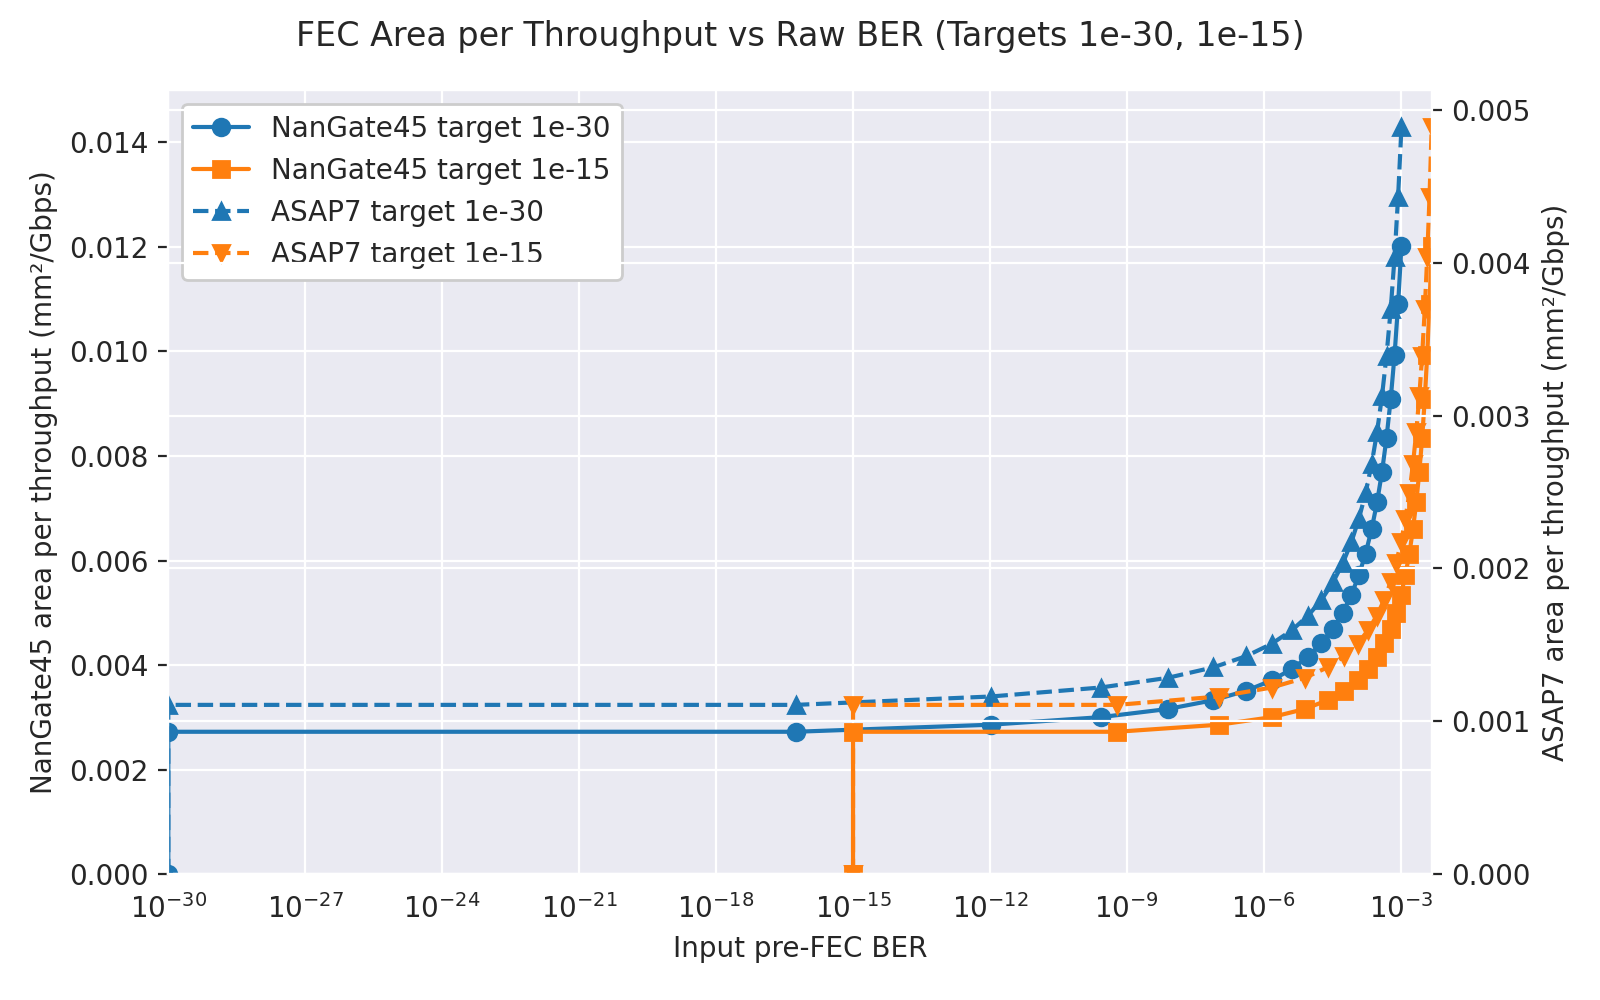
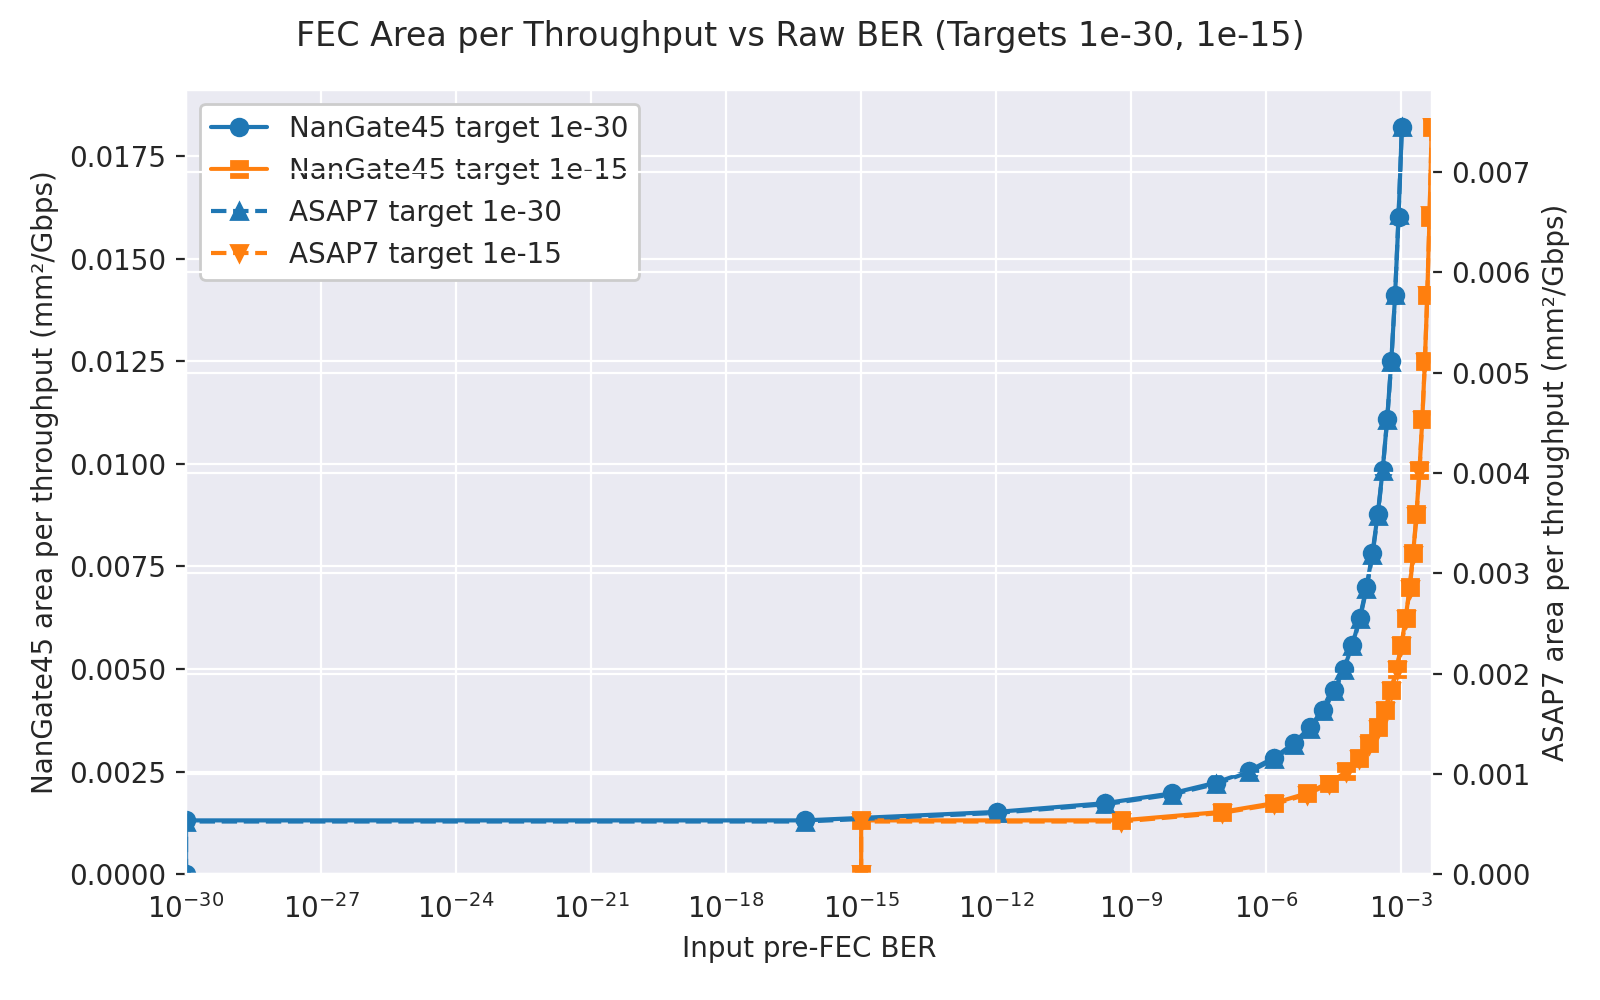
fix area script

diff --git a/scripts/plot_area_throughput_vs_ber.py b/scripts/plot_area_throughput_vs_ber.py
@@ -123,33 +123,34 @@ def build_dataset(selection: pd.DataFrame) -> pd.DataFrame:
             / ((summary["K"] / summary["N"]) * summary["GF_WIDTH"])
         )
 
-        area_map = summary.pivot_table(index="N", columns="top", values="area")
-        clk_map = summary.pivot_table(index="N", columns="top", values="CLK_NS")
+        area_map = summary.pivot_table(index=["N", "K"], columns="top", values="area")
+        clk_map = summary.pivot_table(index=["N", "K"], columns="top", values="CLK_NS")
 
         for _, sel in selection.iterrows():
             if int(sel["k"]) >= int(sel["n"]):
                 continue
-            if sel["n"] not in area_map.index:
+            key = (int(sel["n"]), int(sel["k"]))
+            if key not in area_map.index or key not in clk_map.index:
                 continue
 
             try:
-                area_encoder = area_map.loc[sel["n"], "rs_encoder_wrapper"]
-                area_syndrome = area_map.loc[sel["n"], "rs_syndrome"]
-                area_decoder = area_map.loc[sel["n"], DECODER_TOP]
+                area_encoder = area_map.loc[key, "rs_encoder_wrapper"]
+                area_syndrome = area_map.loc[key, "rs_syndrome"]
+                area_decoder = area_map.loc[key, DECODER_TOP]
             except KeyError:
                 continue
 
-            clk_ns = clk_map.loc[sel["n"], DECODER_TOP]
+            clk_ns = clk_map.loc[key, DECODER_TOP]
             area_total_um2 = area_encoder + area_syndrome + area_decoder
             area_total_mm2 = area_total_um2 / 1e6
 
             if "m" in sel and not pd.isna(sel["m"]):
                 symbol_bits = int(sel["m"])
             else:
-                gf_widths = summary.loc[summary["N"] == sel["n"], "GF_WIDTH"]
-                if gf_widths.empty:
+                summary_rows = summary[(summary["N"] == key[0]) & (summary["K"] == key[1])]
+                if summary_rows.empty:
                     continue
-                symbol_bits = int(gf_widths.iloc[0])
+                symbol_bits = int(summary_rows["GF_WIDTH"].iloc[0])
 
             k_val = float(sel["k"])
             if not math.isfinite(k_val) or k_val == 0:

diff --git a/scripts/plot_area_throughput_vs_ber_asap7.py b/scripts/plot_area_throughput_vs_ber_asap7.py
@@ -123,33 +123,34 @@ def build_dataset(selection: pd.DataFrame) -> pd.DataFrame:
             / ((summary["K"] / summary["N"]) * summary["GF_WIDTH"])
         )
 
-        area_map = summary.pivot_table(index="N", columns="top", values="area")
-        clk_map = summary.pivot_table(index="N", columns="top", values="CLK_NS")
+        area_map = summary.pivot_table(index=["N", "K"], columns="top", values="area")
+        clk_map = summary.pivot_table(index=["N", "K"], columns="top", values="CLK_NS")
 
         for _, sel in selection.iterrows():
             if int(sel["k"]) >= int(sel["n"]):
                 continue
-            if sel["n"] not in area_map.index:
+            key = (int(sel["n"]), int(sel["k"]))
+            if key not in area_map.index or key not in clk_map.index:
                 continue
 
             try:
-                area_encoder = area_map.loc[sel["n"], "rs_encoder_wrapper"]
-                area_syndrome = area_map.loc[sel["n"], "rs_syndrome"]
-                area_decoder = area_map.loc[sel["n"], DECODER_TOP]
+                area_encoder = area_map.loc[key, "rs_encoder_wrapper"]
+                area_syndrome = area_map.loc[key, "rs_syndrome"]
+                area_decoder = area_map.loc[key, DECODER_TOP]
             except KeyError:
                 continue
 
-            clk_ns = clk_map.loc[sel["n"], DECODER_TOP]
+            clk_ns = clk_map.loc[key, DECODER_TOP]
             area_total_um2 = area_encoder + area_syndrome + area_decoder
             area_total_mm2 = area_total_um2 / 1e6
 
             if "m" in sel and not pd.isna(sel["m"]):
                 symbol_bits = int(sel["m"])
             else:
-                gf_widths = summary.loc[summary["N"] == sel["n"], "GF_WIDTH"]
-                if gf_widths.empty:
+                summary_rows = summary[(summary["N"] == key[0]) & (summary["K"] == key[1])]
+                if summary_rows.empty:
                     continue
-                symbol_bits = int(gf_widths.iloc[0])
+                symbol_bits = int(summary_rows["GF_WIDTH"].iloc[0])
 
             k_val = float(sel["k"])
             if not math.isfinite(k_val) or k_val == 0:
